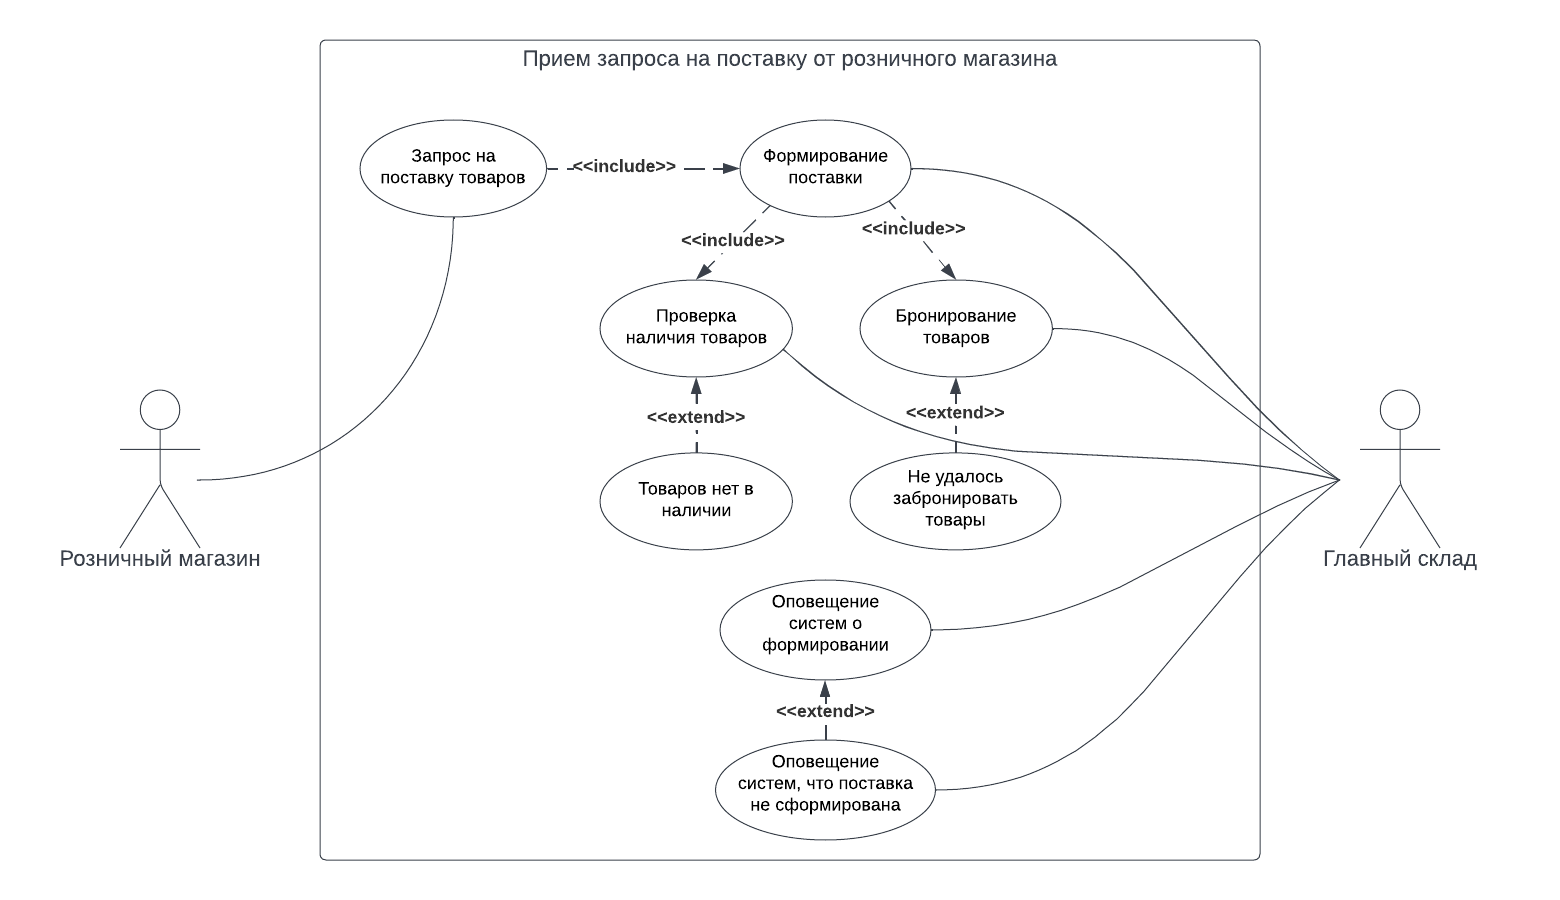
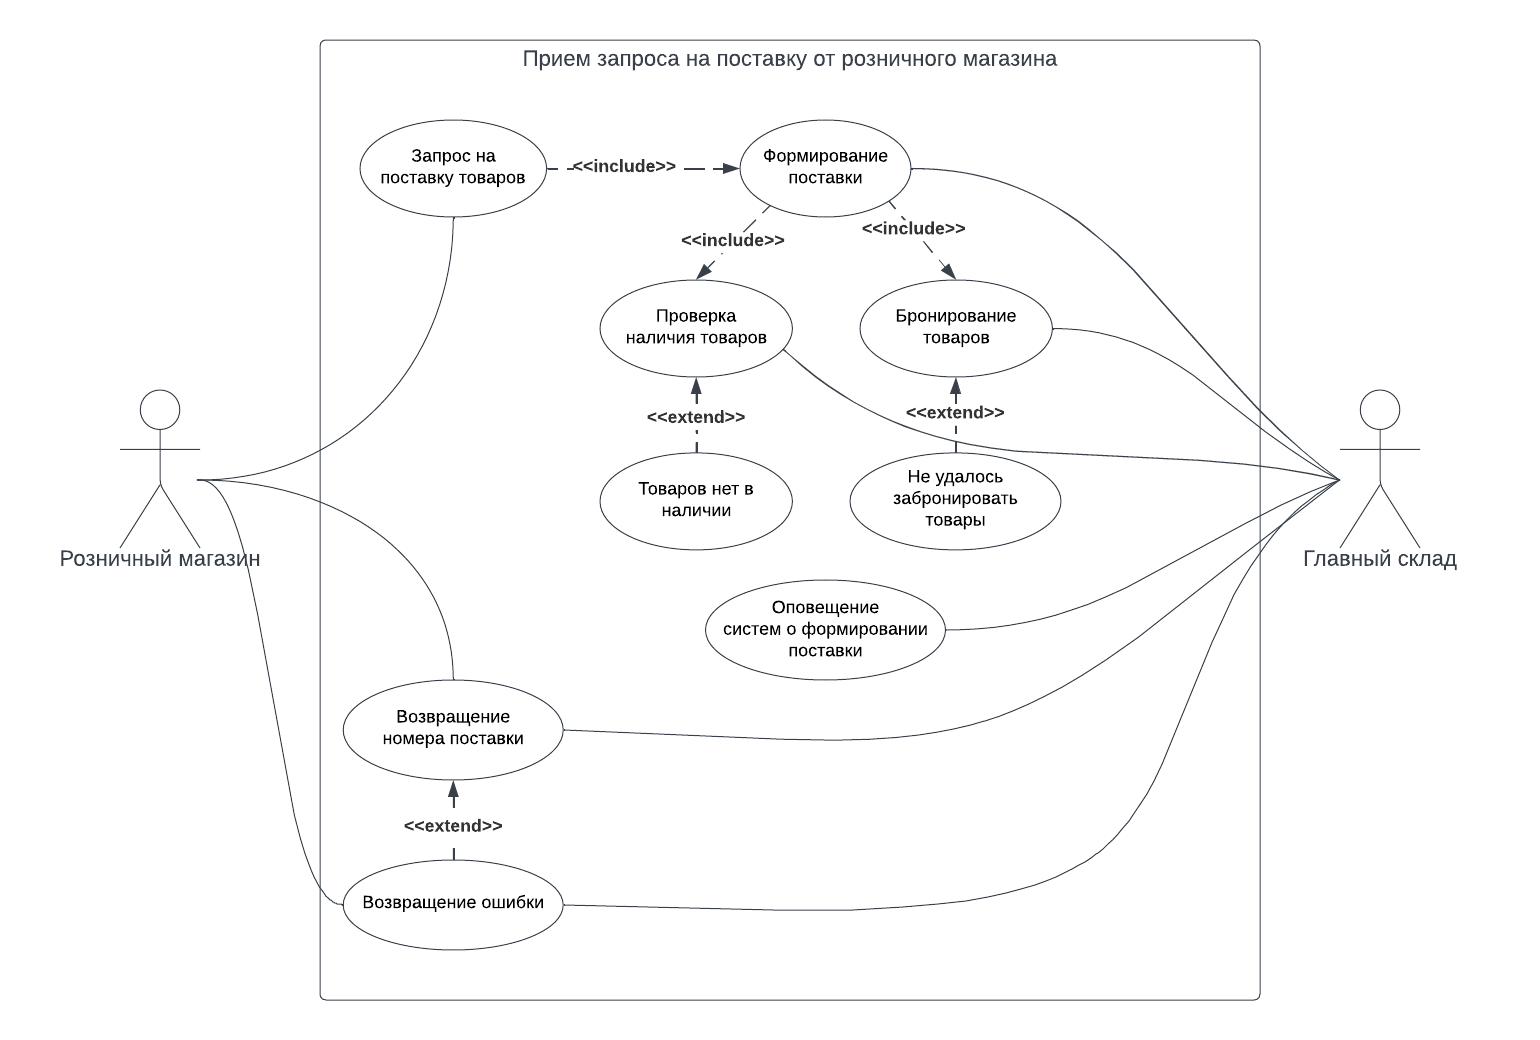
E-com delivery request use case

diff --git a/business-docs/use-cases/general-warehouse/e-com-delivery-request.md b/business-docs/use-cases/general-warehouse/e-com-delivery-request.md
@@ -1,4 +1,4 @@
-# Прием запроса на поставку от розничного магазина
+# Прием запроса на поставку от интернет магазина
 
 [Назад](README.md) | [На главную](../../../README.md)
 
@@ -6,26 +6,26 @@
 
 |  |  |
 | --- | --- |
-| Акторы | Розничный магазин, Главный склад |
-| Цель | Сформировать поставку в розничный магазин |
-| Триггер | Розничный магазин отправил запрос на формирование поставки
+| Акторы | Интернет магазин, Главный склад |
+| Цель | Сформировать поставку заказа в розничный магазин |
+| Триггер | Интернет магазин отправил запрос на формирование поставки
 | Результат | Новая поставка сформирована и взята в работу сотрудниками склада
 | | Заинтересованные системы оповещены о формировании новой поставки
-| | Розничный магазин получил номер сформированной поставки
+| | Интернет магазин получил номер сформированной поставки
 
 ## Действия
 
 | № шага | Актор | Шаг |
 | --- | --- | --- |
-| 1 | Розничный магазин | Отправляет запрос в систему главного склада для формирования поставки указанных в запросе товаров
+| 1 | Интернет магазин | Отправляет запрос в систему главного склада для формирования поставки указанных в запросе товаров
 | 2 | Главный склад | Проверяет наличие товаров
 | 3 | Главный склад | Бронирует товары для поставки
 | 4 | Главный склад | Формирует новую поставку
 | 5 | Главный склад | Оповещает заинтересованные системы о формировании поставки
-| 6 | Главный склад | Возвращает розничному магазину номер сформированной поставки
+| 6 | Главный склад | Возвращает интернет магазину номер сформированной поставки
 | Альтернативные сценарии |
 | 1 | Необходимых товаров нет в наличии | Главный склад отвечает на запрос ошибкой
 | 2 | Не удалось забронировать товары для поставки | Главный склад отвечает на запрос ошибкой
 
 
-![Диаграмма](assets/shop-delivery-request.png)
+![Диаграмма](assets/ecom-delivery-request.png)

diff --git a/business-docs/use-cases/general-warehouse/README.md b/business-docs/use-cases/general-warehouse/README.md
@@ -4,3 +4,4 @@
 
 - [Прием поставки от внешнего поставщика](accept-delivery.md)
 - [Прием запроса на поставку от розничного магазина](shop-delivery-request.md)
+- [Прием запроса на поставку от интернет магазина](e-com-delivery-request.md)
